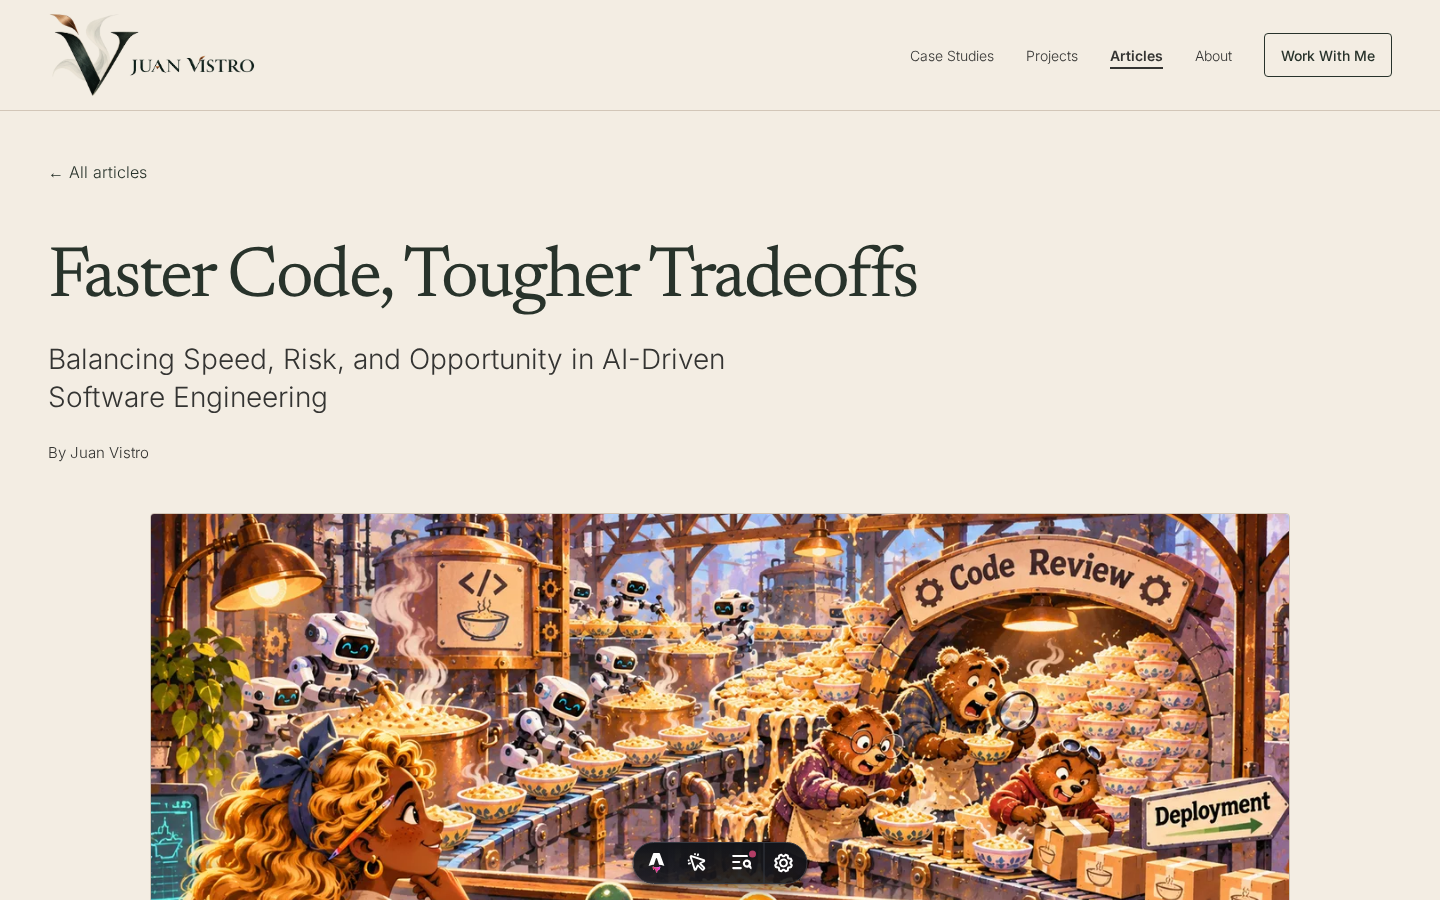
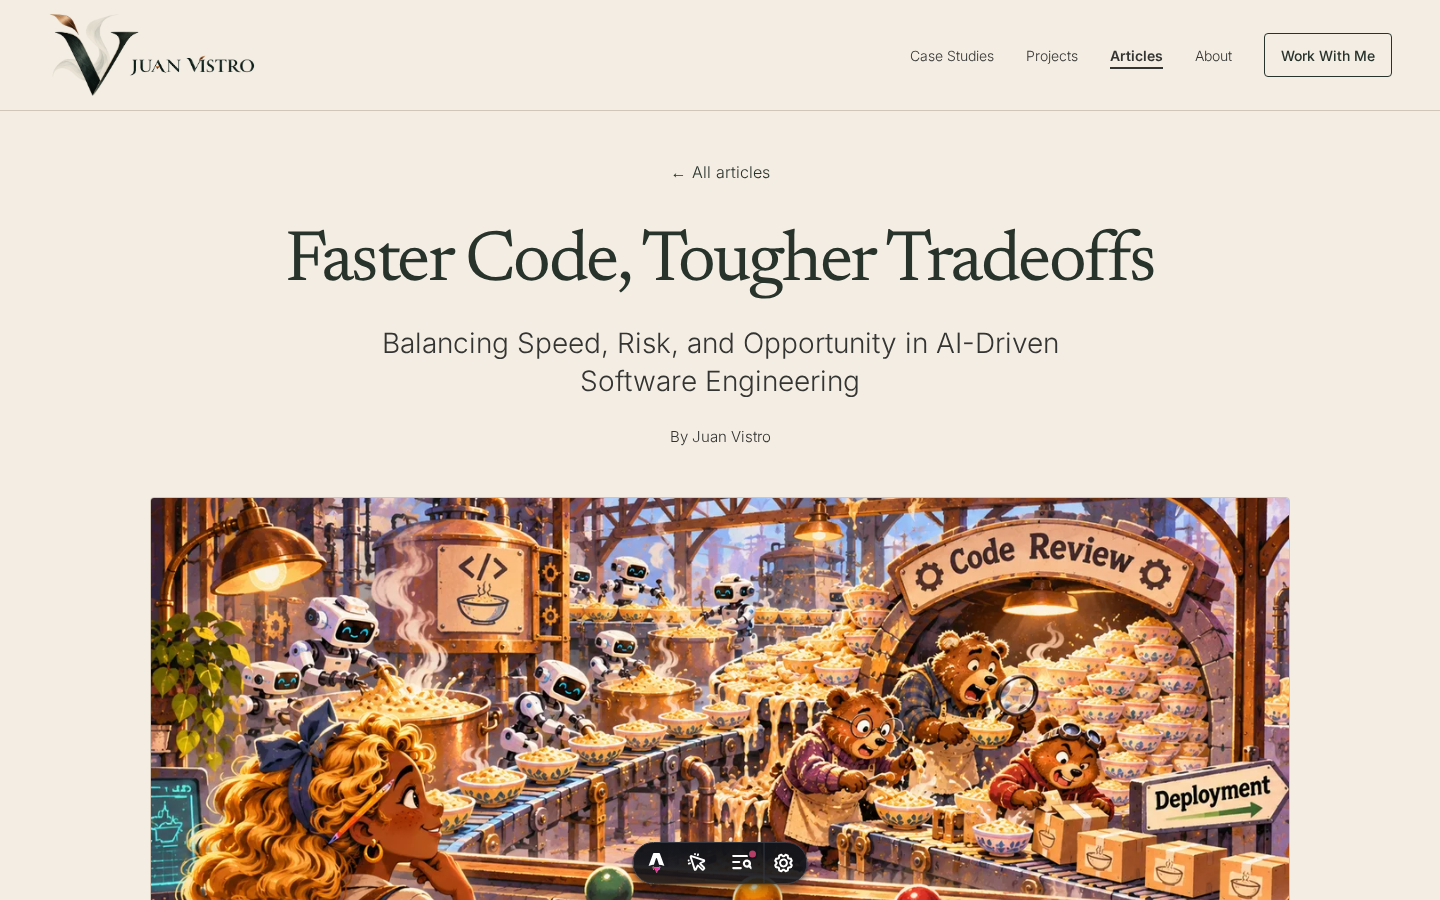
style: center article text content horizontally
Center the reading column, heading, byline, captions and related links under
the hero while keeping paragraph text left-aligned for readability. Refresh
review screenshots and add a centering regression assertion.

diff --git a/tests/article.spec.ts b/tests/article.spec.ts
@@ -114,6 +114,15 @@ test('article typography follows the editorial scale at desktop width', async ({
   expect(await px('main .article-body p')).toBeGreaterThanOrEqual(18);
   expect(await px('main .article-body p')).toBeLessThanOrEqual(20);
   expect(await px('main .article-figure figcaption')).toBeGreaterThanOrEqual(14);
+
+  const center = async (selector: string) => {
+    const box = (await page.locator(selector).first().boundingBox())!;
+    return box.x + box.width / 2;
+  };
+  const heroCenter = await center('.article-hero img');
+  for (const selector of ['.back-link', 'main h1', 'main .subtitle', 'main .byline', 'main .article-body p', 'main .article-body h2']) {
+    expect(await center(selector), selector).toBeCloseTo(heroCenter, 0);
+  }
 });
 
 test('article and Work With Me link to each other', async ({ page, request }) => {
